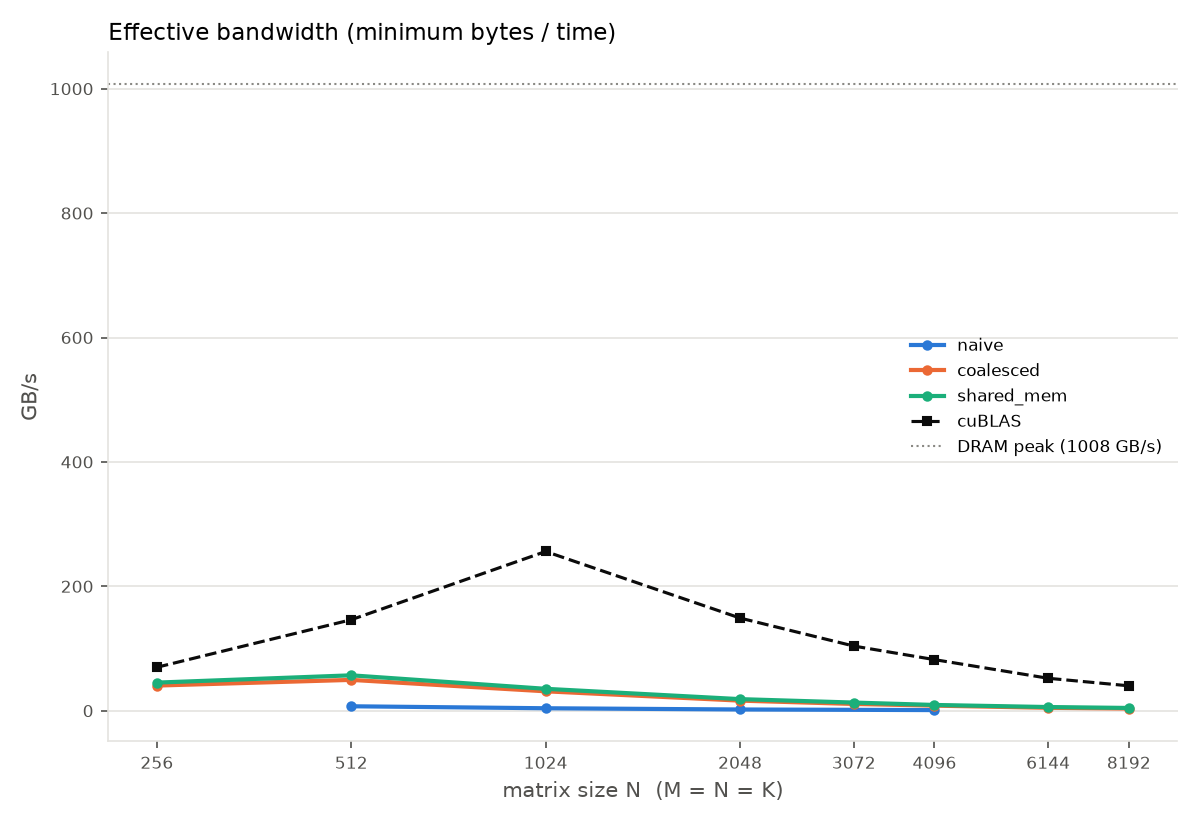
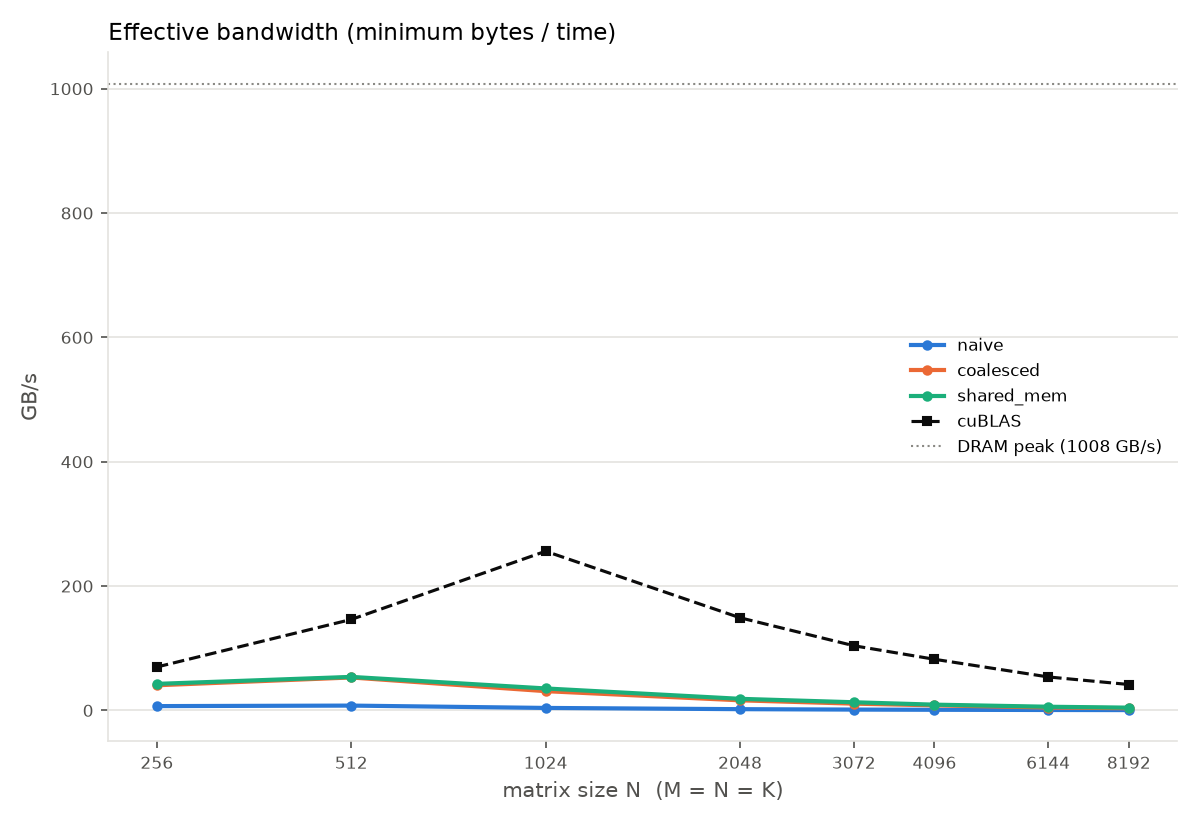
Benchmark results and step-by-step plots: naive, coalesced, shared_mem

Changed region(s): [[0.1233, 0.8182, 0.9558, 0.8788]]

diff --git a/plots/progress.md b/plots/progress.md
@@ -1,7 +1,7 @@
-Progress at N = 4096
+Progress at N = 8192
 
 | kernel | ms | TFLOPS | % cuBLAS | % peak | speedup vs previous | correct |
 |---|---:|---:|---:|---:|---:|---|
-| naive | 203.723 | 0.67 | 1.2% | 0.8% | - | True |
-| coalesced | 24.683 | 5.57 | 9.9% | 6.7% | 8.25x | True |
-| shared_mem | 21.770 | 6.31 | 11.3% | 7.6% | 1.13x | True |
+| naive | 1611.641 | 0.68 | 1.2% | 0.8% | - | True |
+| coalesced | 230.633 | 4.77 | 8.7% | 5.8% | 6.99x | True |
+| shared_mem | 181.820 | 6.05 | 10.6% | 7.3% | 1.27x | True |

diff --git a/plots/history/20261112-082112_naive+coalesced+shared_mem/progress.md b/plots/history/20261112-082112_naive+coalesced+shared_mem/progress.md
@@ -1,0 +1,7 @@
+Progress at N = 8192
+
+| kernel | ms | TFLOPS | % cuBLAS | % peak | speedup vs previous | correct |
+|---|---:|---:|---:|---:|---:|---|
+| naive | 1611.641 | 0.68 | 1.2% | 0.8% | - | True |
+| coalesced | 230.633 | 4.77 | 8.7% | 5.8% | 6.99x | True |
+| shared_mem | 181.820 | 6.05 | 10.6% | 7.3% | 1.27x | True |

diff --git a/plots/history/20261112-082032_naive+coalesced/progress.md b/plots/history/20261112-082032_naive+coalesced/progress.md
@@ -1,0 +1,6 @@
+Progress at N = 8192
+
+| kernel | ms | TFLOPS | % cuBLAS | % peak | speedup vs previous | correct |
+|---|---:|---:|---:|---:|---:|---|
+| naive | 1611.641 | 0.68 | 1.2% | 0.8% | - | True |
+| coalesced | 230.633 | 4.77 | 8.7% | 5.8% | 6.99x | True |

diff --git a/plots/history/20261112-080824_naive/progress.md b/plots/history/20261112-080824_naive/progress.md
@@ -1,0 +1,5 @@
+Progress at N = 8192
+
+| kernel | ms | TFLOPS | % cuBLAS | % peak | speedup vs previous | correct |
+|---|---:|---:|---:|---:|---:|---|
+| naive | 1611.641 | 0.68 | 1.2% | 0.8% | - | True |
